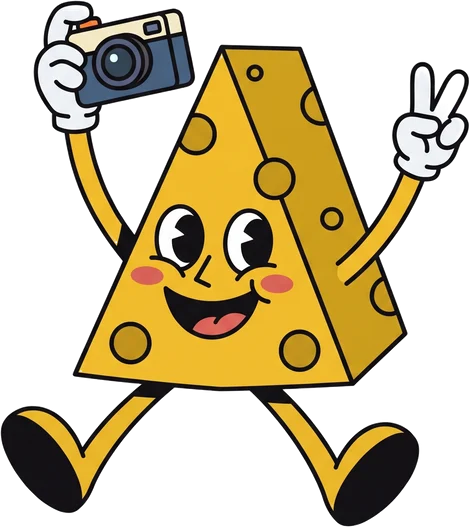
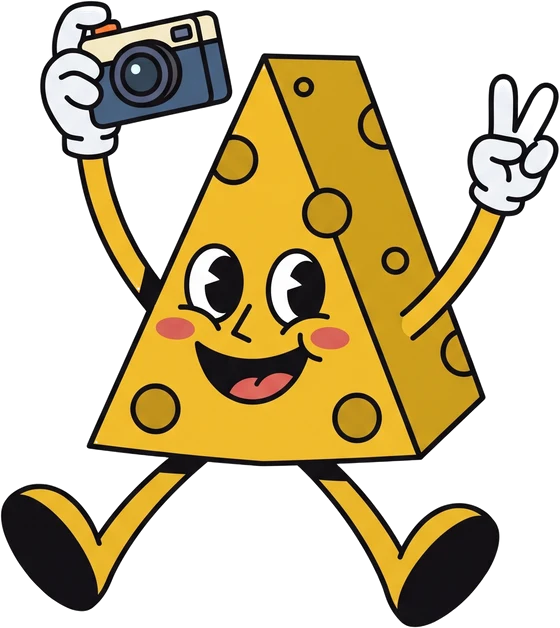
Mascots sit on the ledges; restore hero bubbles; refresh art
- Footer mascot (cheesy 5) rises onto the footer's top ledge, overlapping
  the panel above, in its own column clear of the links
- For-parents mascot (cheesy 3) sits on the cream panel's ledge with legs
  dangling over, body rising into the blue band above
- Hero: restored the 4 floating speech bubbles; phone centered so the
  mascot overlaps it more
- Regenerated all four mascot webp from the current transparent sources

Changed region(s): [[0.834, 0.2732, 0.8638, 0.3036], [0.5957, 0.7287, 0.6255, 0.759]]

diff --git a/css/styles.css b/css/styles.css
@@ -407,7 +407,7 @@ section { padding-block: var(--section-gap); }
 .hero-visual {
   position: relative;
   display: flex;
-  justify-content: flex-end;
+  justify-content: center;
   z-index: 1;
 }
 .hero-phone {
@@ -420,7 +420,7 @@ section { padding-block: var(--section-gap); }
 .hero-mascot {
   display: none;
   position: absolute;
-  left: -12%;
+  left: 2%;
   bottom: -5%;
   width: clamp(180px, 21vw, 258px);
   z-index: 3;
@@ -439,9 +439,19 @@ section { padding-block: var(--section-gap); }
 /* Same mascot, different pose, tucked into the dark footer (pops on the dark
    ground, no disc needed). Hidden until assets/img/mascot-footer.png exists. */
 /* Footer mascot (cheesy 5) — a grid item to the RIGHT of the footer link columns. */
-.foot-mascot { display: none; align-self: center; justify-self: end; z-index: 1; pointer-events: none; width: clamp(230px, 26vw, 360px); }
+.foot-mascot {
+  display: none;
+  position: absolute;
+  right: clamp(8px, 3vw, 50px);
+  top: 0;
+  /* Sit on the footer's top ledge, rising up to overlap the panel above. */
+  transform: translateY(-26%);
+  width: clamp(210px, 24vw, 320px);
+  z-index: 5;
+  pointer-events: none;
+}
 .foot-mascot.has-shot { display: block; }
-.foot-mascot img { width: 100%; height: auto; filter: drop-shadow(0 8px 14px rgba(0, 0, 0, 0.45)); }
+.foot-mascot img { width: 100%; height: auto; filter: drop-shadow(0 10px 16px rgba(0, 0, 0, 0.4)); }
 @media (max-width: 900px) { .foot-mascot { display: none !important; } }
 
 /* Middle-section mascot (cheesy 3) — on a reserved floor at the bottom-left of the
@@ -449,15 +459,21 @@ section { padding-block: var(--section-gap); }
 .mid-mascot {
   display: none;
   position: absolute;
-  left: clamp(6px, 3vw, 64px);
-  bottom: clamp(6px, 1.2vw, 16px);
-  width: clamp(190px, 22vw, 300px);
-  z-index: 2;
+  left: clamp(8px, 4vw, 76px);
+  top: 0;
+  /* Sit on the cream panel's top ledge: most of the body rises above it into
+     the blue band, legs/feet dangle just over the edge onto the cream. */
+  transform: translateY(-63%);
+  width: clamp(200px, 23vw, 312px);
+  z-index: 4;
   pointer-events: none;
 }
 .mid-mascot.has-shot { display: block; }
-.mid-mascot img { width: 100%; height: auto; filter: drop-shadow(0 12px 20px rgba(0, 0, 0, 0.3)); }
-#parents .container { position: relative; padding-bottom: clamp(210px, 22vw, 320px); }
+.mid-mascot img { width: 100%; height: auto; filter: drop-shadow(0 14px 18px rgba(0, 0, 0, 0.22)); }
+.more-section { position: relative; }
+@media (max-width: 620px) {
+  .mid-mascot { width: clamp(150px, 40vw, 200px); transform: translateY(-58%); }
+}
 
 /* Story-strip mascot (cheesy 2) — to the right of the "Hear a story..." cards. */
 .story-strip { position: relative; }
@@ -1691,7 +1707,7 @@ section { padding-block: var(--section-gap); }
 }
 .footer-cols {
   display: grid;
-  grid-template-columns: 1.4fr 1fr 1fr auto;
+  grid-template-columns: 1.4fr 1fr 1fr minmax(230px, auto);
   gap: clamp(28px, 5vw, 56px);
   align-items: start;
 }

diff --git a/index.html b/index.html
@@ -27,7 +27,7 @@
   <meta name="twitter:image" content="https://cheddarcam.com/assets/img/og-image.png" />
 
   <link rel="preload" href="fonts/nunito-latin.woff2" as="font" type="font/woff2" crossorigin />
-  <link rel="stylesheet" href="css/styles.css?v=202609101259" />
+  <link rel="stylesheet" href="css/styles.css?v=202609102120" />
 
   <script type="application/ld+json">
   {
@@ -145,6 +145,8 @@
 
         <div class="hero-visual">
           <div class="bubble hero-say say-1" aria-hidden="true"><span class="em">🏴☠</span>Nice shot, matey!</div>
+          <div class="bubble hero-say say-2 b-right" aria-hidden="true"><span class="em">🤖</span>Beep — cheese!</div>
+          <div class="bubble hero-say say-3" aria-hidden="true"><span class="em">🧙</span>Magical shot!</div>
           <div class="bubble hero-say say-4 b-right" aria-hidden="true"><span class="em">🦸</span>Super smile!</div>
           <!-- Cheddar mascot (cheesy 1) standing on the hero floor, left of the phone.
                Hidden until assets/img/mascot.webp exists (data-shot swaps it in). -->
@@ -305,8 +307,6 @@
 
     <!-- 5. For parents (safety folded in) -->
     <section id="parents" class="fp-section band band--blue clip reveal">
-      <!-- Mascot sitting with the photo album, in the band's left gutter (blue area). -->
-      <div class="mid-mascot" data-shot="assets/img/mascot-mid.webp" data-shot-alt="Cheddar sitting with a photo album" aria-hidden="true"></div>
       <div class="container">
         <div class="fpanel reverse">
           <div class="fpanel-media">
@@ -331,6 +331,9 @@
 
     <!-- MORE COOL STUFF -->
     <section class="more-section band band--cream reveal">
+      <!-- Cheddar (cheesy 3) sits on the cream panel's top ledge, legs dangling,
+           body rising into the blue band above. Hidden until the image exists. -->
+      <div class="mid-mascot" data-shot="assets/img/mascot-mid.webp" data-shot-alt="Cheddar waving, camera around his neck" aria-hidden="true"></div>
       <div class="container">
         <div class="section-head center">
           <span class="eyebrow">And lots of little delights</span>
@@ -419,6 +422,6 @@
     </div>
   </footer>
 
-  <script src="js/main.js?v=202609101259" defer></script>
+  <script src="js/main.js?v=202609102120" defer></script>
 </body>
 </html>

diff --git a/contact.html b/contact.html
@@ -21,7 +21,7 @@
   <meta property="og:image" content="https://cheddarcam.com/assets/img/og-image.png" />
 
   <link rel="preload" href="fonts/nunito-latin.woff2" as="font" type="font/woff2" crossorigin />
-  <link rel="stylesheet" href="css/styles.css?v=202609101259" />
+  <link rel="stylesheet" href="css/styles.css?v=202609102120" />
 </head>
 <body>
   <a class="skip-link" href="#main">Skip to content</a>
@@ -101,6 +101,6 @@
     </div>
   </footer>
 
-  <script src="js/main.js?v=202609101259" defer></script>
+  <script src="js/main.js?v=202609102120" defer></script>
 </body>
 </html>

diff --git a/privacy.html b/privacy.html
@@ -21,7 +21,7 @@
   <meta property="og:image" content="https://cheddarcam.com/assets/img/og-image.png" />
 
   <link rel="preload" href="fonts/nunito-latin.woff2" as="font" type="font/woff2" crossorigin />
-  <link rel="stylesheet" href="css/styles.css?v=202609101259" />
+  <link rel="stylesheet" href="css/styles.css?v=202609102120" />
 </head>
 <body>
   <a class="skip-link" href="#main">Skip to content</a>
@@ -216,6 +216,6 @@
     </div>
   </footer>
 
-  <script src="js/main.js?v=202609101259" defer></script>
+  <script src="js/main.js?v=202609102120" defer></script>
 </body>
 </html>

diff --git a/404.html b/404.html
@@ -13,7 +13,7 @@
   <link rel="apple-touch-icon" href="assets/img/apple-touch-icon.png" />
 
   <link rel="preload" href="fonts/nunito-latin.woff2" as="font" type="font/woff2" crossorigin />
-  <link rel="stylesheet" href="css/styles.css?v=202609101259" />
+  <link rel="stylesheet" href="css/styles.css?v=202609102120" />
 </head>
 <body>
   <a class="skip-link" href="#main">Skip to content</a>
@@ -87,6 +87,6 @@
     </div>
   </footer>
 
-  <script src="js/main.js?v=202609101259" defer></script>
+  <script src="js/main.js?v=202609102120" defer></script>
 </body>
 </html>

diff --git a/faq.html b/faq.html
@@ -21,7 +21,7 @@
   <meta property="og:image" content="https://cheddarcam.com/assets/img/og-image.png" />
 
   <link rel="preload" href="fonts/nunito-latin.woff2" as="font" type="font/woff2" crossorigin />
-  <link rel="stylesheet" href="css/styles.css?v=202609101259" />
+  <link rel="stylesheet" href="css/styles.css?v=202609102120" />
 
   <script type="application/ld+json">
   {
@@ -259,6 +259,6 @@
     </div>
   </footer>
 
-  <script src="js/main.js?v=202609101259" defer></script>
+  <script src="js/main.js?v=202609102120" defer></script>
 </body>
 </html>
